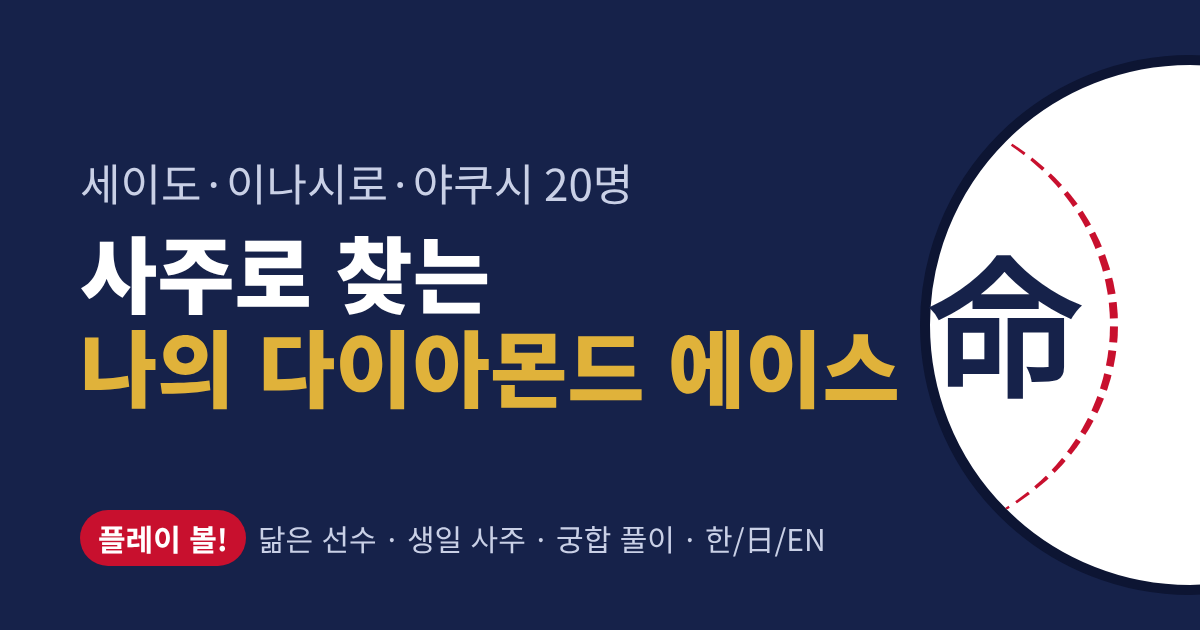
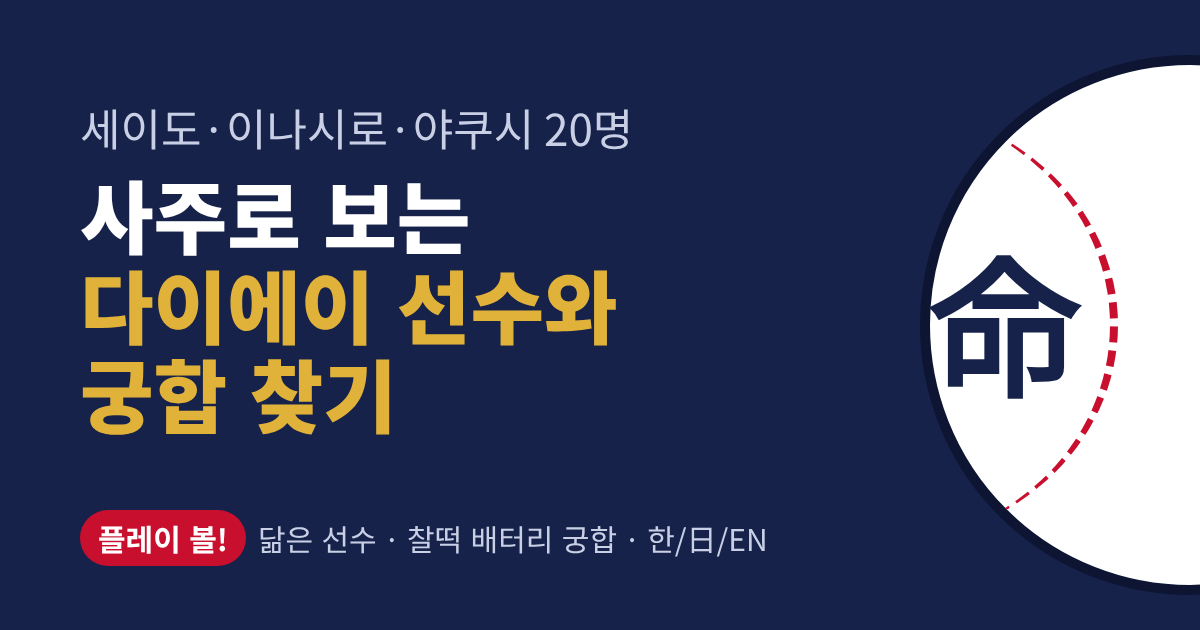
사이트 이름 변경: 사주로 보는 다이에이 선수와 궁합 찾기, X 공유 버튼 제거
- 한/일/영 제목, OG·트위터 카드 문구와 이미지, README 반영
- 공유는 링크 복사만 남김

Claude-Session: https://claude.ai/code/session_013KbxVxor8aHAB5WhQUasoP

Changed region(s): [[0.0617, 0.181, 0.7708, 0.6937], [0.3392, 0.8143, 0.7092, 0.9048]]

diff --git a/index.html b/index.html
@@ -3,18 +3,18 @@
 <head>
 <meta charset="utf-8">
 <meta name="viewport" content="width=device-width,initial-scale=1,viewport-fit=cover">
-<title>사주로 찾는 나의 다이아몬드 에이스</title>
+<title>사주로 보는 다이에이 선수와 궁합 찾기</title>
 <meta name="description" content="생년월일로 사주를 풀어 다이아몬드 에이스(ダイヤのA) 선수 20명 중 나와 닮은 선수와 궁합을 찾아보는 비공식 팬 테스트. 한국어·日本語·English.">
 <meta name="theme-color" content="#16224a">
 <!-- 공유 카드 (주소를 바꾸면 og:url·og:image·twitter:image도 함께 바꿔 주세요) -->
 <meta property="og:type" content="website">
-<meta property="og:title" content="사주로 찾는 나의 다이아몬드 에이스">
-<meta property="og:description" content="내 사주와 닮은 다이에이 선수는? 일간·신강약으로 매칭하고, 선수 공식 생일 사주로 궁합까지.">
+<meta property="og:title" content="사주로 보는 다이에이 선수와 궁합 찾기">
+<meta property="og:description" content="내 사주와 닮은 다이에이 선수는? 선수 공식 생일 사주로 찰떡 배터리 궁합까지 찾아봐요.">
 <meta property="og:image" content="https://daiya-saju.vercel.app/assets/og.png">
 <meta property="og:url" content="https://daiya-saju.vercel.app/">
 <link rel="canonical" href="https://daiya-saju.vercel.app/">
 <meta name="twitter:card" content="summary_large_image">
-<meta name="twitter:title" content="사주로 찾는 나의 다이아몬드 에이스">
+<meta name="twitter:title" content="사주로 보는 다이에이 선수와 궁합 찾기">
 <meta name="twitter:description" content="내 사주와 닮은 다이에이 선수는? 궁합까지 풀어 드려요.">
 <meta name="twitter:image" content="https://daiya-saju.vercel.app/assets/og.png">
 <link rel="icon" href="assets/favicon.svg" type="image/svg+xml">
@@ -77,7 +77,6 @@
         <span class="alias" id="mAlias"></span>
         <p class="tagline" id="mTag"></p>
         <div class="share">
-          <button type="button" class="share-x" id="shareX"></button>
           <button type="button" class="share-copy" id="copyLink"></button>
         </div>
       </div>

diff --git a/js/i18n-ja.js b/js/i18n-ja.js
@@ -283,9 +283,9 @@ const PACK_JA = {
       "いちばん大切なのは日柱の上の文字、<b>日干</b>。これが「あなた自身」を表します。十の日干にはそれぞれ大樹・太陽・ろうそく・山・海などのイメージがあります。ほかの文字は日干との関係（<b>通変星</b>）で読み、命式が自分を強く支えているか（<b>身強</b>）弱いか（<b>身弱</b>）で個性が変わります。",
       "相性では二人の日干の出会い方を見ます。甲木と己土のように結びつく<b>干合</b>、甲木と庚金のように正面からぶつかる<b>干冲</b>、互いを生かしたり抑えたりする関係などがあります。このテストはその考え方を使ったお楽しみ企画で、本格的な占いではありません。"
     ],
-    title:"四柱推命で見つける、あなたのダイヤのA",
+    title:"四柱推命で見る ダイヤのA選手と相性診断",
     eyebrow:"日干でポジションを決め、身強・身弱で選手を分ける非公式ファンテスト",
-    h1a:"四柱推命で見つける", h1b:"あなたのダイヤのA",
+    h1a:"四柱推命で見る", h1b:"ダイヤのA選手と相性診断",
     lede:"日干ひとつに、性格の似た選手が二人ずつ組になっています。命式が身強なら前で引っぱるタイプ、身弱ならそばで共に伸びるタイプの選手が出ます。青道・稲実・薬師の選手と監督20人の中から似ている選手を見つけ、公式の誕生日から出した本当の命式と比べてみましょう。",
     bd:"生年月日（新暦）", bt:"生まれた時刻", zi:"子の刻（23:30〜）の扱い", ziNext:"翌日の日柱で（早子時）", ziSame:"当日の日柱で（夜子時）",
     nt:"生まれた時刻がわからない", hint:"韓国標準時（日本時間と同じUTC+9）基準で、節気（立春・啓蟄…）は太陽黄経で計算します。旧暦の誕生日は新暦に直して入力してください。",

diff --git a/js/i18n-en.js b/js/i18n-en.js
@@ -283,9 +283,9 @@ const PACK_EN = {
       "The key character is your <b>Day Stem</b>, the top of your day pillar: it stands for <i>you</i>. Each of the ten stems has its own image — a great tree, the sun, a candle, a mountain, the sea. The other characters are read by how they relate to your Day Stem (the <b>Ten Gods</b>), and whether the chart supports you strongly or weakly (<b>Strong</b> / <b>Weak</b>) shapes your style.",
       "For compatibility, Saju looks at how two Day Stems meet: some pairs bind together in a <b>Union</b> (e.g. Jia Wood + Ji Earth), some <b>Clash</b> head-on (e.g. Jia Wood vs Geng Metal), and others nurture or control each other. This test uses those ideas just for fun — it's not fortune-telling."
     ],
-    title:"Find Your Ace of Diamond Match by Saju",
+    title:"Find Your Ace of Diamond Player & Chemistry by Saju",
     eyebrow:"An unofficial fan test: your day stem sets the position, your chart's strength picks the player",
-    h1a:"Find your", h1b:"Ace of Diamond match by Saju",
+    h1a:"Find your Ace of Diamond", h1b:"player & chemistry by Saju",
     lede:"Each day stem is paired with two players of similar nature. A strong chart points to the player who leads from the front; a weak chart, to the one who grows alongside others. Find your match among 20 players and coaches from Seido, Inashiro and Yakushi, then compare with the real Saju drawn from their official birthdays.",
     bd:"Date of birth (solar)", bt:"Time of birth", zi:"Rat hour (23:30~)", ziNext:"Use next day's pillar", ziSame:"Use same day's pillar",
     nt:"I don't know my birth time", hint:"Based on Korea Standard Time (UTC+9); solar terms are computed from the sun's ecliptic longitude. If you were born outside Korea, enter the local time converted to KST.",

diff --git a/js/app.js b/js/app.js
@@ -83,7 +83,6 @@ function render(y, m, d, hh, mm, hasTime, ziMode, isSample) {
   $("mAlias").innerHTML = teamTag(c) + esc(c.pos);
   $("mTag").textContent = c.tag;
   LAST_RESULT = { id: c.id, name: c.name, stem: stemName(c.stem), type: c.s > 0 ? u.strongType : u.weakType };
-  $("shareX").textContent = u.shareX;
   $("copyLink").textContent = u.copyLink;
   if (!isSample && !SILENT) track("result_shown", { char: c.id, day_stem: ds, strength: { 신강:"strong", 신약:"weak", 중화:"balanced" }[a.strengthLabel], has_time: hasTime, lang: LANG });
   CX_SEEN = false;
@@ -250,12 +249,6 @@ function shareUrl() {
   const base = (window.DAIYA_CONFIG && window.DAIYA_CONFIG.siteUrl) || (location.origin + location.pathname);
   return base + "#" + LANG;
 }
-$("shareX").addEventListener("click", () => {
-  if (!LAST_RESULT) return;
-  const text = U().shareText(LAST_RESULT.name, LAST_RESULT.stem, LAST_RESULT.type);
-  track("share_click", { channel: "x", char: LAST_RESULT.id, lang: LANG });
-  window.open("https://twitter.com/intent/tweet?text=" + encodeURIComponent(text) + "&url=" + encodeURIComponent(shareUrl()), "_blank", "noopener");
-});
 $("copyLink").addEventListener("click", async () => {
   track("share_click", { channel: "copy", char: LAST_RESULT && LAST_RESULT.id, lang: LANG });
   try { await navigator.clipboard.writeText(shareUrl()); $("copyLink").textContent = U().copied; setTimeout(() => $("copyLink").textContent = U().copyLink, 1600); } catch (e) {}

diff --git a/js/i18n-ko.js b/js/i18n-ko.js
@@ -30,9 +30,9 @@ const PACK_KO = {
       zod:["쥐","소","호랑이","토끼","용","뱀","말","양","원숭이","닭","개","돼지"], zodSuf:"띠"
     },
     introT:null, intro:null,
-    title:"사주로 찾는 나의 다이아몬드 에이스",
+    title:"사주로 보는 다이에이 선수와 궁합 찾기",
     eyebrow:"일간으로 포지션을 정하고, 신강·신약으로 선수를 가르는 비공식 팬 테스트",
-    h1a:"사주로 찾는", h1b:"나의 다이아몬드 에이스",
+    h1a:"사주로 보는", h1b:"다이에이 선수와 궁합 찾기",
     lede:"일간 하나에 성향이 닮은 선수 두 명이 짝지어져 있어요. 사주가 신강하면 앞에서 끌고 가는 쪽, 신약하면 곁에서 함께 크는 쪽 선수가 나와요. 세이도·이나시로·야쿠시의 선수와 감독 20명 중 나와 닮은 선수를 찾고, 그 선수의 공식 생일로 뽑은 진짜 사주와 비교해 보세요.",
     bd:"생년월일 (양력)", bt:"태어난 시각", zi:"자시(23:30~) 처리", ziNext:"다음날 일주로 (조자시 통합)", ziSame:"당일 일주로 (야자시)",
     nt:"태어난 시각을 몰라요", hint:"한국 표준시 기준이고, 절기(입춘·경칩…)는 태양 황경으로 계산해요. 음력 생일이라면 양력으로 바꿔서 넣어 주세요. 1948~1988년 사이 서머타임 기간에 태어났다면 1시간을 빼서 입력하세요.",

diff --git a/css/style.css b/css/style.css
@@ -257,5 +257,4 @@ button.bar.pick[aria-pressed="true"] { background: var(--accent-soft); }
 /* 공유 버튼 */
 .share { display: flex; flex-wrap: wrap; gap: 8px; margin-top: 10px; }
 .share button { font: inherit; font-size: 13px; padding: 6px 14px; border-radius: 999px; cursor: pointer; border: 1.5px solid var(--ink); }
-.share-x { background: var(--ink); color: var(--bg); }
 .share-copy { background: var(--paper); color: var(--ink); }

diff --git a/README.md b/README.md
@@ -1,4 +1,4 @@
-# 사주로 찾는 나의 다이아몬드 에이스 ⚾
+# 사주로 보는 다이에이 선수와 궁합 찾기 ⚾
 
 생년월일(과 태어난 시각)로 사주를 풀어, 『다이아몬드 에이스(ダイヤのA)』 선수·감독 20명 중 **나와 닮은 선수**를 찾고 선수들의 **공식 생일 사주**로 궁합을 풀어 주는 비공식 팬 테스트예요. 한국어 · 日本語 · English를 지원해요.
 
